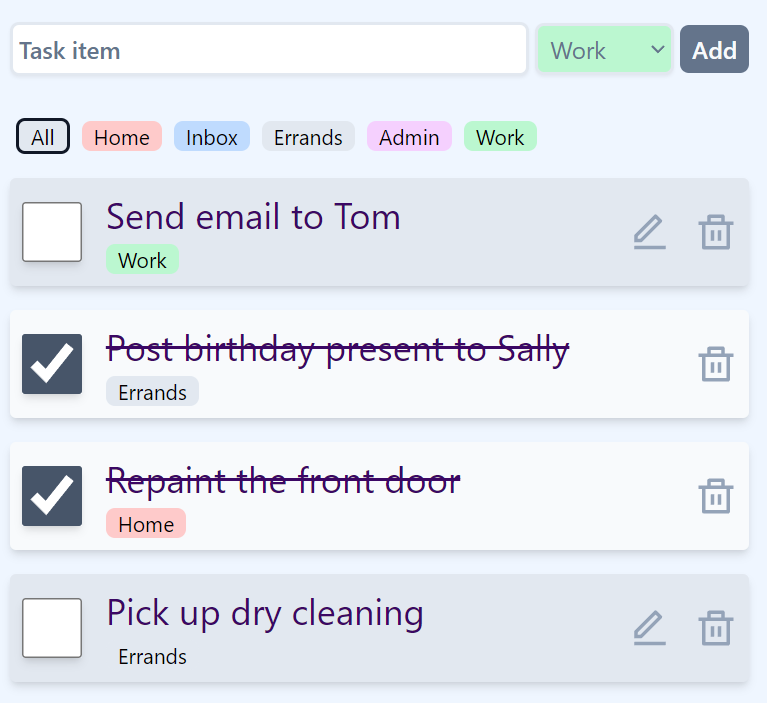
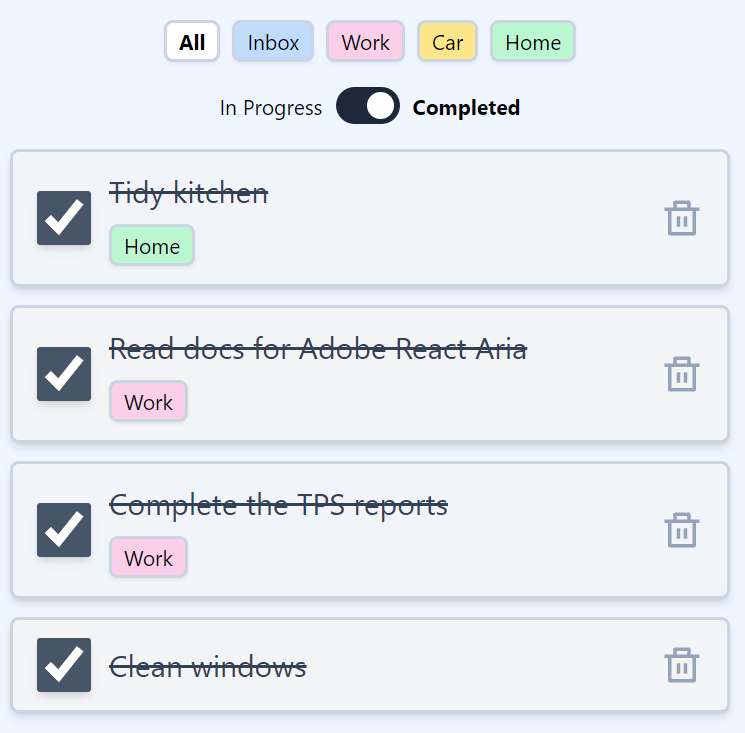
Update home page, add completed switch, guest login link, various style tweaks

diff --git a/src/features/homeScreen/HomeScreenIntro.jsx b/src/features/homeScreen/HomeScreenIntro.jsx
@@ -1,9 +1,12 @@
 import { Link } from "react-router-dom";
+import { useLoginUserMutation } from "../user/userSlice";
 
 const HomeScreenIntro = () => {
+  const [loginUser] = useLoginUserMutation();
+
   return (
-    <div className={`px-4 flex flex-col justify-center items-center gap-3`}>
-      <h1 className="text-3xl sm:text-4xl text-black font-bold text-balance text-center mt-16">
+    <div className={`px-4 flex flex-col justify-center items-center gap-4`}>
+      <h1 className="text-3xl sm:text-4xl text-black font-bold text-balance text-center mt-8">
         Get organised and manage your tasks the Sort My Day way.
       </h1>
       <p className="text-xl text-balance text-center">Simple, flexible todo list software.</p>
@@ -15,14 +18,16 @@ const HomeScreenIntro = () => {
       >
         Start Getting Organised Now!
       </Link>
-      <p className="text-m">Create a free account to get started.</p>
-      <div className="p-4 bg-red-200 mt-4 font-semibold text-balance text-center">
-        To demo SortMyDay without creating an account, please{" "}
-        <Link to={"/login"} className="underline">
-          log in
-        </Link>{" "}
-        with username 'guest' and password 'guest'.
-      </div>
+      <p className="text-m mt-2 text-balance text-center">
+        Create a free account to get started, or{" "}
+        <button
+          className="underline"
+          onClick={() => loginUser({ username: "guest", password: "guest" })}
+        >
+          log in instantly
+        </button>{" "}
+        as a guest.
+      </p>
     </div>
   );
 };

diff --git a/src/features/tasks/TaskViewRender.jsx b/src/features/tasks/TaskViewRender.jsx
@@ -27,32 +27,17 @@ const TaskViewRender = ({
   };
 
   // set background color of task based on if it's evenly
-  // positioned (using pos value) and completed.
+  // positioned (using pos value).
   // Creates an alternating style effect.
-  const taskBGLight =
-    pos % 2 === 0
-      ? completed
-        ? "bg-slate-100"
-        : "bg-slate-200"
-      : completed
-      ? "bg-gray-100"
-      : "bg-gray-200";
-
-  const taskBGDark =
-    pos % 2 === 0
-      ? completed
-        ? "dark:bg-slate-700"
-        : "dark:bg-slate-800"
-      : completed
-      ? "dark:bg-gray-700"
-      : "dark:bg-gray-800";
+  const taskBGLight = pos % 2 === 0 ? "bg-slate-100" : "bg-gray-100";
+  const taskBGDark = pos % 2 === 0 ? "dark:bg-slate-700" : "dark:bg-gray-700";
 
   return (
     <div
       ref={nodeRef}
-      className={`flex items-center ${taskBGLight} ${taskBGDark} px-2 sm:px-4 py-3 my-4 sm:mx-4 sm:rounded-md 
+      className={`flex items-center ${taskBGLight} ${taskBGDark} px-4 py-3 my-3 mx-4 rounded-md 
       shadow-md gap-3 sm:gap-4 transition-opacity 
-      border-solid border-y-2 sm:border-2 border-slate-300 dark:border-slate-600 ${
+      border-solid border-2 border-slate-300 dark:border-slate-600 ${
         transitionClassNames[state]
       }  ${pending && "animate-pulse"}`}
     >

diff --git a/src/features/tasks/TasksList.jsx b/src/features/tasks/TasksList.jsx
@@ -6,7 +6,7 @@ import NoTasks from "./NoTasks";
 import useTagStore from "../tags/useTagStore";
 import { useGetTasksQuery } from "./tasksSlice";
 
-const TasksList = ({ filter }) => {
+const TasksList = ({ filter, showCompleted }) => {
   const { data: tasks } = useGetTasksQuery();
   const [tags] = useTagStore();
 
@@ -28,12 +28,14 @@ const TasksList = ({ filter }) => {
   }, [tasks, tags]);
 
   const filteredTasks = useMemo(() => {
-    // Create new filtered tasks array dependent on selected filter tag (or "" for all)
-    const filtered = sortedTasks?.filter((task) => (filter !== "" ? task.tag === filter : true));
+    // Create new filtered tasks array dependent on selected filter (or "" for all) and completed status
+    const filtered = sortedTasks?.filter(
+      (task) => (filter !== "" ? task.tag === filter : true) && showCompleted === task.completed
+    );
 
     // finally, add a position id for each task to enable custom styling
     return filtered?.map((task, i) => ({ ...task, pos: i }));
-  }, [filter, sortedTasks]);
+  }, [filter, showCompleted, sortedTasks]);
 
   return (
     <>

diff --git a/src/features/tasks/TasksListSwitch.jsx b/src/features/tasks/TasksListSwitch.jsx
@@ -1,0 +1,19 @@
+import { Switch } from "react-aria-components";
+
+const TaskListSwitch = ({ showCompleted, setShowCompleted }) => {
+  return (
+    <Switch
+      className="group flex gap-2 items-center font-normal text-sm"
+      onChange={setShowCompleted}
+      defaultSelected={showCompleted}
+    >
+      <span className={!showCompleted ? "font-bold" : null}>In Progress</span>
+      <div className="flex items-center h-[26px] w-[44px] shrink-0 cursor-default rounded-full shadow-inner bg-clip-padding border border-solid border-white/30 p-[3px] box-border transition duration-200 ease-in-out bg-slate-400 group-pressed:bg-slate-700 group-selected:bg-slate-800 group-selected:group-pressed:bg-slate-800 outline-none group-focus-visible:ring-2 ring-black">
+        <span className="h-[18px] w-[18px] transform rounded-full bg-white shadow transition duration-100    ease-in-out translate-x-0 group-selected:translate-x-[100%]" />
+      </div>
+      <span className={showCompleted ? "font-bold" : null}>Completed</span>
+    </Switch>
+  );
+};
+
+export default TaskListSwitch;

diff --git a/src/features/tasks/NoTasks.jsx b/src/features/tasks/NoTasks.jsx
@@ -1,16 +1,8 @@
 const NoTasks = () => {
   return (
     <>
-      <div className="font-medium text-xl bg-slate-100 border-solid border-4 border-slate-600 mx-4 md:w-2/3 md:mx-auto shadow-m text-slate-50 rounded-xl">
-        <h3 className="bg-slate-600 px-2 py-1 text-center">No Todos!</h3>
-        <p className="text-slate-600 p-4 font-thin">
-          Get started with SortMyDay by adding a task that you need to get done. Type the task into
-          the box above.
-        </p>
-        <p className="text-slate-600 p-4 font-thin">
-          You can choose to add a tag to the task by choosing a tag from the list. Add new tags (or
-          change existing tag) by going into the user menu at the top of the screen.
-        </p>
+      <div className="mx-3 mt-6 text-center text-balance font-thin text-xl shadow-lg rounded-lg border-slate-300 bg-slate-100 border-solid border-2 text-slate-500 p-3">
+        No tasks found. Add a new task with the form above.
       </div>
     </>
   );

diff --git a/src/features/tasks/TasksHome.jsx b/src/features/tasks/TasksHome.jsx
@@ -2,15 +2,21 @@ import { useState } from "react";
 import TasksList from "./TasksList";
 import AddTask from "./AddTask";
 import Filters from "./Filters";
+import TaskListSwitch from "./TasksListSwitch";
 
 const TasksHome = () => {
   const [filter, setFilter] = useState("");
+  const [showCompleted, setShowCompleted] = useState(false);
 
   return (
     <>
       <AddTask />
-      <Filters filter={filter} setFilter={setFilter} />
-      <TasksList filter={filter} />
+
+      <div className="flex flex-col lg:flex-row gap-4 justify-between items-center my-4 mx-4">
+        <Filters filter={filter} setFilter={setFilter} />
+        <TaskListSwitch showCompleted={showCompleted} setShowCompleted={setShowCompleted} />
+      </div>
+      <TasksList filter={filter} showCompleted={showCompleted} />
     </>
   );
 };

diff --git a/src/features/tasks/TaskView.jsx b/src/features/tasks/TaskView.jsx
@@ -14,17 +14,18 @@ const TaskView = ({ task, setIsEditing }) => {
   const nodeRef = useRef(null);
 
   const handleCheckToggle = () => {
-    updateTask({ ...task, completed: !task.completed });
+    setInView(false);
+    setTimeout(() => updateTask({ ...task, completed: !task.completed }), 150);
   };
 
   const handleDeleteClick = () => {
     // fade out the task item and then trigger the deletion
     setInView(false);
-    setTimeout(() => deleteTask(task._id), 150);
+    setTimeout(() => deleteTask(task._id), 200);
   };
 
   return (
-    <Transition nodeRef={nodeRef} in={inView} timeout={150}>
+    <Transition nodeRef={nodeRef} in={inView} timeout={200}>
       {(state) => (
         <TaskViewRender
           state={state}

diff --git a/src/features/homeScreen/HomeScreenFullScreenShot.jsx b/src/features/homeScreen/HomeScreenFullScreenShot.jsx
@@ -1,0 +1,15 @@
+import fullScreenShot from "../../assets/screen-fullscreenshot.png";
+
+const HomeScreenFullScreenShot = () => {
+  return (
+    <div className="flex justify-center pt-5 bg-orange-100 my-4 border-b-4 border-solid bg-gradient-to-b from-blue-50 to-blue-200 border-slate-400 shadow-lg overflow-clip">
+      <img
+        className="w-2/3 lg:w-1/2 rounded-t-xl border-t-4 border-l-4 border-r-4 border-slate-300 shadow-lg"
+        src={fullScreenShot}
+        alt="Screen shot of SortMyDay task list"
+      ></img>
+    </div>
+  );
+};
+
+export default HomeScreenFullScreenShot;

diff --git a/src/features/userMenu/UserMenu.jsx b/src/features/userMenu/UserMenu.jsx
@@ -21,7 +21,7 @@ const UserMenu = () => {
     <>
       <button
         onClick={handleAccountIconClick}
-        className="flex items-center justify-center cursor-pointer bg-orange-400 min-w-10 min-h-10 rounded-full mx-4 mt-2 shadow-orange-100 border-solid border-orange-500 border-2"
+        className="flex items-center justify-center cursor-pointer bg-orange-400 w-10 h-10 min-w-10 min-h-10 rounded-full mx-4 mt-2 shadow-orange-100 border-solid border-orange-500 border-2"
       >
         <span className="text-2xl font-mono text-white">{userLetter}</span>
       </button>

diff --git a/src/features/homeScreen/HomeScreen.jsx b/src/features/homeScreen/HomeScreen.jsx
@@ -2,13 +2,16 @@ import LogoScrollContainer from "./LogoScrollContainer";
 import HomeScreenIntro from "./HomeScreenIntro";
 import HomeScreenOutro from "./HomeScreenOutro";
 import HomeScreenShots from "./HomeScreenShots";
+import HomeScreenFullScreenShot from "./HomeScreenFullScreenShot";
 
 const HomeScreen = () => {
   return (
     <>
       <HomeScreenIntro />
-      <HomeScreenShots />
+      <HomeScreenFullScreenShot />
       <LogoScrollContainer />
+      <HomeScreenShots />
+
       <HomeScreenOutro />
     </>
   );

diff --git a/src/features/tasks/Filters.jsx b/src/features/tasks/Filters.jsx
@@ -14,7 +14,7 @@ const Filters = ({ filter, setFilter }) => {
   if (tags?.length === 0) return <></>;
 
   return (
-    <div className="flex flex-wrap items-center justify-start gap-2 my-2 mx-3">
+    <div className="flex flex-wrap items-center justify-start gap-2">
       <FilterTag tagId="" filter={filter} setFilter={setFilter} />
       {tags?.map((tag) => {
         return <FilterTag key={tag.id} tagId={tag.id} filter={filter} setFilter={setFilter} />;

diff --git a/src/features/common/Layout.jsx b/src/features/common/Layout.jsx
@@ -7,7 +7,7 @@ const Layout = () => {
   return (
     <div className="flex flex-col h-screen">
       <Header />
-      <main className="my-0 flex-1 mx-auto bg-blue-50 w-full md:w-2/3 xl:w-1/2 shadow-xl pt-4 dark:bg-slate-900">
+      <main className="my-0 pb-12 flex-1 mx-auto bg-blue-50 w-full md:w-2/3 xl:w-1/2 shadow-xl pt-4 dark:bg-slate-900">
         <Outlet />
       </main>
       <Footer />
